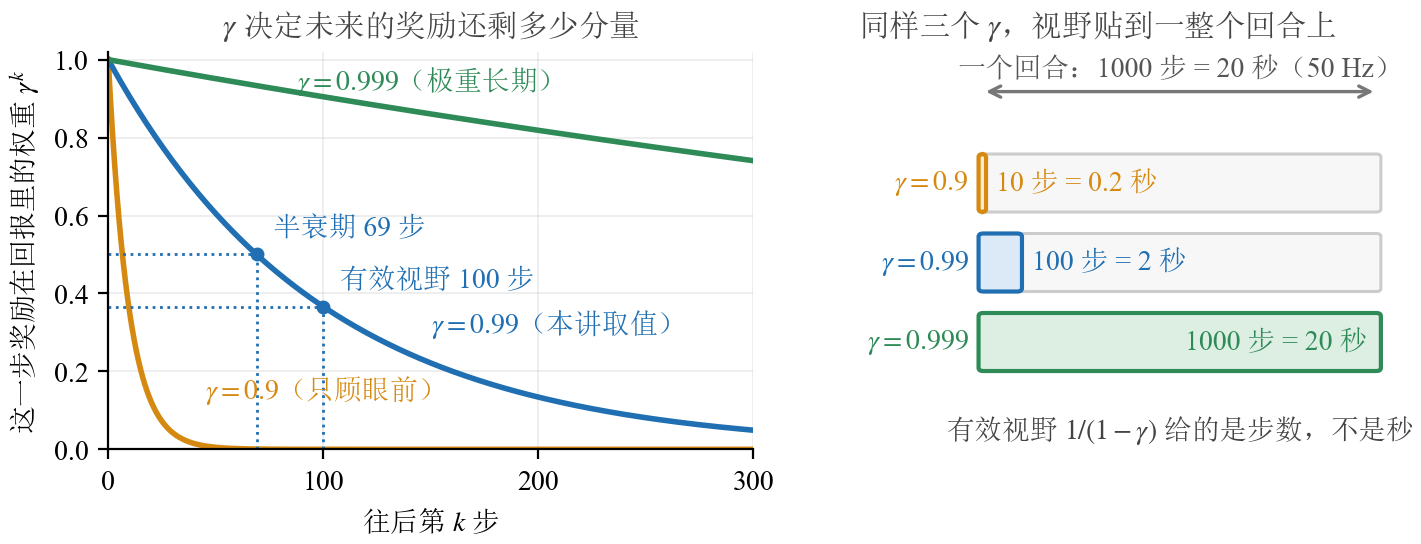
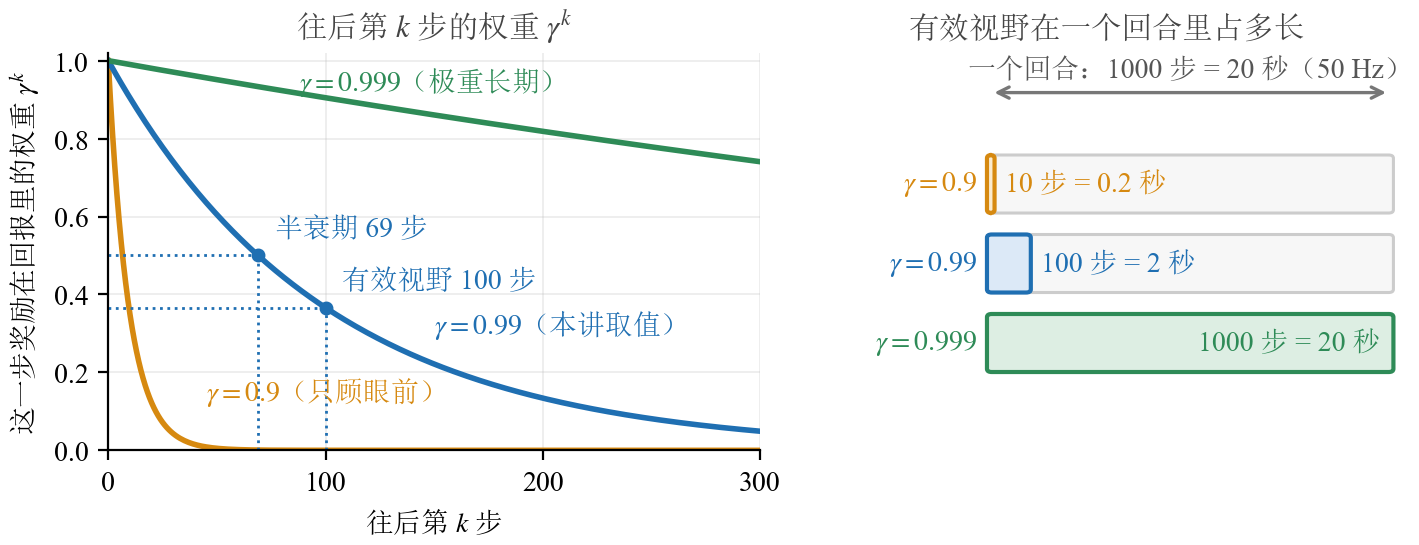
style(figures): 复查 VLA+RL 自绘图是否合规范，逐张改
上一轮只判了"该不该自绘"，没回头看排版。按前面定的规范一张一张渲出来看：

删掉图内标题 2 处（此前只删了 label(0.5,0.9x) 那种写法，漏了别的）：
- q_propagation：ax.set_title 写法
- policy_distribution：label 但不在 y>=0.9

删掉解释性语句 11 处（正文图注里都有同样的话）：
- replay_buffer 括号里两句、action_space 两句、onoff_dataflow 三句、
  cartpole_task 两句（含一句设问）、discount_horizon 一句、act_step3_dataflow 一句

改 discount_horizon 左右栏标题：原来写的是解读，改成栏名（这一栏画的是什么）

replay_buffer 八条连线由弧线改正交，与全书其余流程图一致

文字颜色统一成黑：policy_spectrum 四个档位名、act_step3_dataflow 五个框
的标题与内文、train_deploy_roundtrip、cartpole_task、onoff_dataflow。
保留有语义的颜色：A2C/DDPG 的通路色（图注点名）、one_cut_three_lines 三条线
的分色、cartpole 红绿对照、record_loop_timing 两圈对照、chunking 上下两半、
lerobot_layers 的路径色、两张分组地图的组色。

diff --git a/assets/figures/render_diagrams.py b/assets/figures/render_diagrams.py
@@ -259,16 +259,15 @@ def action_space():
     fig, ax = canvas(6.8, 3.2)
     ax.plot([0.5, 0.5], [0.03, 0.89], color="#CCCCCC", linewidth=1.4, linestyle="--")
 
-    label(ax, 0.25, 0.855, "离散动作空间", BLUE, 12, True)
+    label(ax, 0.25, 0.855, "离散动作空间", INK, 12, True)
     label(ax, 0.25, 0.765, "从有限个选项里挑一个", "#4A6A85", 10)
     for (bx, by, text) in [(0.10, 0.545, "←"), (0.28, 0.545, "→"),
                            (0.10, 0.395, "A"), (0.28, 0.395, "B")]:
         box(ax, bx, by, 0.12, 0.115, BLUE, [(text, 12, False)])
-    label(ax, 0.25, 0.29, "动作个数有限，可以逐个比较好坏", "#555555", 10)
     label(ax, 0.25, 0.15, "例：手柄的四个键；", "#888888", 10)
     label(ax, 0.25, 0.06, "语言模型选下一个 token", "#888888", 10)
 
-    label(ax, 0.75, 0.855, "连续动作空间", RED, 12, True)
+    label(ax, 0.75, 0.855, "连续动作空间", INK, 12, True)
     label(ax, 0.75, 0.765, "动作是一个实数区间里的取值", "#4A6A85", 10)
     ax.annotate("", xy=(0.94, 0.47), xytext=(0.57, 0.47),
                 arrowprops=dict(arrowstyle="-|>", color=ORANGE, linewidth=2.0))
@@ -278,7 +277,6 @@ def action_space():
     label(ax, 0.60, 0.395, "-1.0", INK, 10)
     label(ax, 0.90, 0.395, "+1.0", INK, 10)
     label(ax, 0.74, 0.555, "任一实数", RED, 10)
-    label(ax, 0.75, 0.29, "取值有无穷多个，没法逐个枚举", "#555555", 10)
     label(ax, 0.75, 0.15, "例：方向盘转角；", "#888888", 10)
     label(ax, 0.75, 0.06, "G1 的 29 个关节目标量", "#888888", 10)
     save(fig, "lecture14", "fig-action-space")
@@ -312,7 +310,7 @@ def discount_horizon():
 
     left.set_xlabel("往后第 $k$ 步", fontsize=10)
     left.set_ylabel("这一步奖励在回报里的权重 $\\gamma^{k}$", fontsize=10)
-    left.set_title("$\\gamma$ 决定未来的奖励还剩多少分量", fontsize=11, color="#444444")
+    left.set_title("往后第 $k$ 步的权重 $\\gamma^{k}$", fontsize=11, color="#444444")
     left.set_xlim(0, 300); left.set_ylim(0, 1.02)
     left.set_xticks([0, 100, 200, 300])
     left.tick_params(labelsize=10)
@@ -323,7 +321,7 @@ def discount_horizon():
     right.axis("off")
     right.set_xticks([]); right.set_yticks([])
     right.set_xlim(0, 1); right.set_ylim(0, 1)
-    right.set_title("同样三个 $\\gamma$，视野贴到一整个回合上", fontsize=11, color="#444444")
+    right.set_title("有效视野在一个回合里占多长", fontsize=11, color="#444444")
 
     x0, span = 0.30, 0.68                       # 轴左端与全长，全长 = 1000 步
     right.annotate("", xy=(x0, 0.90), xytext=(x0 + span, 0.90),
@@ -355,9 +353,6 @@ def discount_horizon():
             right.text(x0 + w + 0.02, y + h / 2, note, ha="left", va="center",
                        fontsize=10, color=color)
 
-    right.text(x0 + span / 2, 0.05,
-               "有效视野 $1/(1-\\gamma)$ 给的是步数，不是秒",
-               ha="center", va="center", fontsize=10, color="#444444")
 
     fig.tight_layout()
     save(fig, "lecture14", "fig14-3-discount-horizon")
@@ -368,7 +363,6 @@ def discount_horizon():
 # 这件事，光靠 π(a|s) 这个记号看不出来，画出来就一目了然。
 def policy_distribution():
     fig, ax = canvas(7.2, 3.0)
-    label(ax, 0.30, 0.95, "策略：把状态映射成一个动作分布", "#333333", 13, True)
     box(ax, 0.02, 0.46, 0.24, 0.34, BLUE,
         [("状态 $s$", 12, True), ("关节角度、躯干姿态", 10, False), ("目标速度指令", 10, False)])
     box(ax, 0.32, 0.46, 0.20, 0.34, ORANGE,
@@ -400,7 +394,7 @@ def policy_distribution():
     inset.annotate("采出来的动作 $a$", xy=(sampled + 0.06, 0.50), xytext=(1.85, 0.72),
                    fontsize=10, color="#333333", va="center",
                    arrowprops=dict(arrowstyle="->", color="#333333", linewidth=1.1))
-    inset.set_title("动作分布 $\\pi_\\theta(a \\mid s)$", fontsize=11, color=RED, pad=16)
+    inset.set_title("动作分布 $\\pi_\\theta(a \\mid s)$", fontsize=11, color=INK, pad=16)
     inset.set_xlim(-3, 4.0); inset.set_ylim(0, 1.20)
     inset.set_xlabel("动作取值", fontsize=10, labelpad=1)
     inset.set_xticks([-2, 0, 2]); inset.tick_params(labelsize=10)
@@ -415,20 +409,18 @@ def policy_distribution():
 # ── 第14讲 3.4：on-policy 与 off-policy 的数据流对比 ────────────────────
 def onoff_dataflow():
     fig, ax = canvas(7.8, 3.4)
-    label(ax, 0.22, 0.955, "on-policy（第14讲、第15讲）", BLUE, 13, True)
-    label(ax, 0.75, 0.955, "off-policy（第16讲）", RED, 13, True)
+    label(ax, 0.22, 0.955, "on-policy（第14讲、第15讲）", INK, 13, True)
+    label(ax, 0.75, 0.955, "off-policy（第16讲）", INK, 13, True)
     ax.plot([0.46, 0.46], [0.02, 0.90], color="#DDDDDD", linewidth=1.4, linestyle="--")
 
     # 左：采样 → 更新 → 作废
     box(ax, 0.09, 0.68, 0.26, 0.13, BLUE, [("当前策略", 12, True)])
     box(ax, 0.07, 0.36, 0.30, 0.17, BLUE, [("新鲜数据", 12, True), ("（只来自当前策略）", 10, False)])
     arrow(ax, (0.17, 0.675), (0.17, 0.535), EDGE)
-    label(ax, 0.135, 0.605, "采样", BLUE, 10, ha="right")
+    label(ax, 0.135, 0.605, "采样", INK, 10, ha="right")
     arrow(ax, (0.27, 0.535), (0.27, 0.675), EDGE)
-    label(ax, 0.305, 0.605, "更新一次", BLUE, 10, ha="left")
+    label(ax, 0.305, 0.605, "更新一次", INK, 10, ha="left")
     arrow(ax, (0.22, 0.35), (0.22, 0.24), EDGE)
-    label(ax, 0.22, 0.185, "更新完立即作废", INK, 10)
-    label(ax, 0.22, 0.09, "策略一变，全部重采", "#999999", 10)
 
     # 右：三来源 → 经验池 → 目标策略。三条入池线各自竖直落到经验池顶边的三个等分点上，
     # 不用斜线汇聚——斜线在这种"多对一"里最容易看成随手连的。
@@ -453,10 +445,9 @@ def onoff_dataflow():
             connect(ax, pool, "bottom", policy, "top", color, src_t=tp, dst_t=tq, stub=0.03)
         else:
             connect(ax, policy, "top", pool, "bottom", color, src_t=tq, dst_t=tp, stub=0.03)
-    label(ax, 0.645, 0.375, "随机抽 batch", RED, 10, ha="right")
+    label(ax, 0.645, 0.375, "随机抽 batch", INK, 10, ha="right")
     label(ax, 0.90, 0.375, "新经验入池", INK, 10, ha="left")
     box(ax, *policy, RED, [("目标策略", 12, True)])
-    label(ax, 0.73, 0.075, "采数据的手 与 被训练的脑 解耦", INK, 10)
     save(fig, "lecture14", "fig-onoff-dataflow")
 
 
@@ -579,8 +570,7 @@ def replay_buffer():
     n = len(cells)
 
     x0, x1, cw = 0.02, 0.98, (0.98 - 0.02) / n
-    label(ax, 0.02, 0.955, "池内经验（按时间存放：相邻转移几乎一样，来源成片）",
-          "#444444", 10, ha="left")
+    label(ax, 0.02, 0.955, "池内经验（按时间存放）", INK, 10, ha="left")
     for i, color in enumerate(cells):
         ax.add_patch(FancyBboxPatch((x0 + i * cw + cw * 0.12, 0.72), cw * 0.76, 0.15,
                                     boxstyle="round,pad=0.001,rounding_size=0.004",
@@ -595,10 +585,12 @@ def replay_buffer():
         ax.add_patch(FancyBboxPatch((bx, 0.20), bw, 0.15,
                                     boxstyle="round,pad=0.001,rounding_size=0.004",
                                     linewidth=0.8, edgecolor=cells[i], facecolor=cells[i]))
-        ax.add_patch(FancyArrowPatch((x0 + (i + 0.5) * cw, 0.705), (bx + bw / 2, 0.36),
-                                     connectionstyle="arc3,rad=0.18", arrowstyle="-",
-                                     linewidth=0.8, color="#C9C9C9"))
-    label(ax, 0.5, 0.115, "随机抽出的一个 batch（时刻、回合、来源全打散）", INK, 10)
+        # 连线走正交，与全书其余流程图一致；中间那条横带按 j 错开，八条不叠在一起。
+        src_x, dst_x = x0 + (i + 0.5) * cw, bx + bw / 2
+        _polyline(ax, [(src_x, 0.715), (src_x, 0.56 - j * 0.012),
+                       (dst_x, 0.56 - j * 0.012), (dst_x, 0.355)],
+                  "#C9C9C9", 0.9, 0.010)
+    label(ax, 0.5, 0.115, "随机抽出的一个 batch", INK, 10)
 
     # 图例放在最下面一行，不再贴着右侧的柱子。
     lx = 0.20
@@ -638,10 +630,8 @@ def q_propagation():
 
     ax.set_xticks(range(3)); ax.set_xticklabels([g[0] for g in groups], fontsize=10)
     ax.set_ylabel("Q 值", fontsize=10)
-    ax.set_ylim(0, 1.85); ax.set_yticks([0, 0.5, 1.0])
+    ax.set_ylim(0, 1.60); ax.set_yticks([0, 0.5, 1.0])
     ax.tick_params(labelsize=10)
-    ax.set_title("一个终点奖励沿转移链回传成价值坡道（$\\gamma=0.9$；起点三个 $Q$ 全为 0）",
-                 fontsize=11, color="#444444")
     ax.legend(fontsize=10, frameon=False, ncol=3, loc="upper center", borderpad=0.2,
               handlelength=1.2, columnspacing=1.0)
     ax.spines["top"].set_visible(False); ax.spines["right"].set_visible(False)
@@ -712,23 +702,21 @@ def cartpole_task():
 
     # 自由转轴是这个任务的题眼：没有任何电机去扶那根杆
     arrow(ax, (0.075, 0.585), (CART_X - 0.020, PIVOT[1] + 0.014), EDGE, rad=-0.22, lw=1.4)
-    label(ax, 0.030, 0.615, "自由转轴：没有电机", "#333333", 10, True, ha="left")
+    label(ax, 0.030, 0.615, "自由转轴：没有电机", INK, 10, True, ha="left")
 
     ax.annotate("", xy=(CART_X, TRACK_Y - 0.115), xytext=(XC, TRACK_Y - 0.115),
                 arrowprops=dict(arrowstyle="<|-|>", color=BLUE, linewidth=1.5))
-    label(ax, 0.31, TRACK_Y - 0.175, "(1) 车位置 x", BLUE, 10, True)
+    label(ax, 0.31, TRACK_Y - 0.175, "(1) 车位置 $x$", INK, 10, True)
     arrow(ax, (CART_X + 0.045, TRACK_Y + 0.028), (CART_X + 0.108, TRACK_Y + 0.028), EDGE, lw=1.5)
-    label(ax, CART_X + 0.118, TRACK_Y + 0.028, "(2) 车速度 $\\dot{x}$", BLUE, 10,
+    label(ax, CART_X + 0.118, TRACK_Y + 0.028, "(2) 车速度 $\\dot{x}$", INK, 10,
           ha="left", bg=True)
 
 
     # ── 右半上：动作只有两档 ──────────────────────────────────────────
-    label(ax, 0.80, 0.845, "动作只有两档，没有第三个选项", "#333333", 11, True)
     for ax_x, txt, color in ((0.70, "0：左推 ←", BLUE), (0.90, "1：右推 →", RED)):
         box(ax, ax_x - 0.085, 0.735, 0.17, 0.075, color, [(txt, 11, True)])
 
     # ── 右半下：反直觉的那一下 ────────────────────────────────────────
-    label(ax, 0.80, 0.605, "杆往右倒，车要往哪边推？", "#333333", 11, True)
     for cx, deg, color, cap1, cap2 in (
             (0.685, 11, RED, "倒到 11°", "再偏一点就出界"),
             (0.905, 4, GREEN, "回到 4°", "车追到了杆下面")):
@@ -896,12 +884,12 @@ def policy_spectrum():
     w = 0.229
     for x0, color, name, en, add, gain, cases in stages:
         plain_box(ax, x0, 0.325, w, 0.535, color)
-        label(ax, x0 + w / 2, 0.805, name, color, 12, True)
+        label(ax, x0 + w / 2, 0.805, name, INK, 12, True)
         label(ax, x0 + w / 2, 0.752, en, "#888888", 10, va="top")
         label(ax, x0 + w / 2, 0.575, add, INK, 11, True)
         label(ax, x0 + w / 2, 0.505, gain, INK, 10)
         label(ax, x0 + w / 2, 0.440, "代表：" + cases if cases != "—" else "",
-              "#666666", 10, va="top")
+              INK, 10, va="top")
 
     ax.annotate("", xy=(0.985, 0.245), xytext=(0.015, 0.245),
                 arrowprops=dict(arrowstyle="-|>", color="#999999", linewidth=1.6))
@@ -909,7 +897,7 @@ def policy_spectrum():
     label(ax, 0.87, 0.175, "看图、听话、会推理", "#999999", 10)
 
     ax.plot([0.756, 0.756], [0.075, 0.235], color=RED, linewidth=1.4, linestyle=(0, (3, 2)))
-    label(ax, 0.985, 0.100, "第11讲起从这里展开", RED, 11, True, ha="right")
+    label(ax, 0.985, 0.100, "第11讲起从这里展开", INK, 11, True, ha="right")
     save(fig, "lecture08", "fig08-2-policy-spectrum")
 
 
@@ -922,8 +910,8 @@ def train_deploy_roundtrip():
     lower = ["机器人执行\n（裁剪 / 限位兜底）", "还原动作口径\n（相对口径需累加）",
              "反归一化\n（乘回 $\\sigma$、加回 $\\mu$）", "网络\n（推理输出）"]
 
-    label(ax, 0.015, 0.935, "训练时：数据一路进网络", BLUE, 12, True, ha="left")
-    label(ax, 0.015, 0.235, "部署时：输出必须原路逆着走回来", RED, 12, True, ha="left")
+    label(ax, 0.015, 0.935, "训练时：数据一路进网络", INK, 12, True, ha="left")
+    label(ax, 0.015, 0.235, "部署时：输出必须原路逆着走回来", INK, 12, True, ha="left")
 
     w, gap = 0.213, 0.031
     for i, text in enumerate(upper):
@@ -1176,27 +1164,27 @@ def act_step3_dataflow():
     label(ax, 0.077, 0.38, "机器人关节\n状态 + $z$", INK, 10)
 
     plain_box(ax, 0.165, 0.46, 0.145, 0.34, BLUE)
-    label(ax, 0.2375, 0.70, "ResNet18", BLUE, 11, True)
+    label(ax, 0.2375, 0.70, "ResNet18", INK, 11, True)
     label(ax, 0.2375, 0.555, "每路出\n15×20×512", "#4A6A85", 10)
     arrow(ax, (0.138, 0.63), (0.162, 0.63), EDGE, lw=1.4)
 
     plain_box(ax, 0.34, 0.46, 0.145, 0.34, BLUE)
-    label(ax, 0.4125, 0.70, "展平 + 位置编码", BLUE, 11, True)
+    label(ax, 0.4125, 0.70, "展平 + 位置编码", INK, 11, True)
     label(ax, 0.4125, 0.555, "每路 300 个\n512 维 token", "#4A6A85", 10)
     arrow(ax, (0.313, 0.63), (0.337, 0.63), EDGE, lw=1.4)
 
     plain_box(ax, 0.515, 0.46, 0.15, 0.34, GREEN)
-    label(ax, 0.59, 0.70, "Transformer\nEncoder", GREEN, 11, True)
+    label(ax, 0.59, 0.70, "Transformer\nEncoder", INK, 11, True)
     label(ax, 0.59, 0.535, "4 层自注意力", "#3D6B51", 10)
     arrow(ax, (0.488, 0.63), (0.512, 0.63), EDGE, lw=1.4)
 
     plain_box(ax, 0.695, 0.46, 0.15, 0.34, ORANGE)
-    label(ax, 0.77, 0.70, "Transformer\nDecoder", ORANGE, 11, True)
+    label(ax, 0.77, 0.70, "Transformer\nDecoder", INK, 11, True)
     label(ax, 0.77, 0.535, "1 层交叉注意力", "#8A6212", 10)
     arrow(ax, (0.668, 0.63), (0.692, 0.63), EDGE, lw=1.4)
 
     plain_box(ax, 0.875, 0.46, 0.108, 0.34, RED)
-    label(ax, 0.929, 0.70, "预测的\n动作序列", RED, 11, True)
+    label(ax, 0.929, 0.70, "预测的\n动作序列", INK, 11, True)
     label(ax, 0.929, 0.535, "$k$ 步动作块", "#8B3A2E", 10)
     arrow(ax, (0.848, 0.63), (0.872, 0.63), EDGE, lw=1.4)
 
@@ -1206,8 +1194,6 @@ def act_step3_dataflow():
     label(ax, 0.42, 0.315, "关节状态与 $z$ 各过一个线性层，直接投到 512 维",
           "#888888", 10, bg=True)
 
-    label(ax, 0.5, 0.045, "配置项就是 2.5 节那张表里的 $d_{\\mathrm{model}}=512$ 与 "
-                          "n_decoder_layers = 1", "#888888", 10)
     save(fig, "lecture10", "fig10-2-act-step3-dataflow")
 
 
